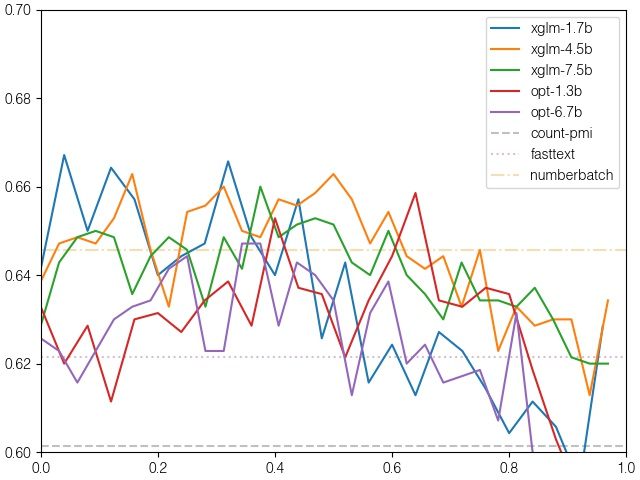
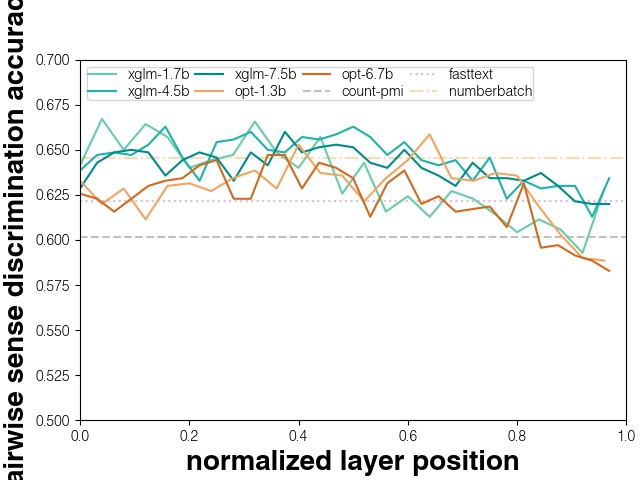
colors

Changed region(s): [[0.0, 0.0, 0.9688, 1.0], [0.9688, 0.875, 1.0, 1.0], [0.9375, 0.625, 0.9688, 0.7188]]

diff --git a/plot_layer_by_layer.py b/plot_layer_by_layer.py
@@ -26,12 +26,20 @@ static_styles = {
                  'numberbatch' : ['wheat', '-.'], 
                  'fasttext' : ['thistle', ':'],
                  }
+cont_colors = {
+               'xglm-1.7b' : 'mediumaquamarine',
+               'xglm-4.5b' : 'lightseagreen',
+               'xglm-7.5b' : 'darkcyan',
+               'opt-1.3b' : 'sandybrown',
+               'opt-6.7b' : 'chocolate',
+               }
+
 ### plotting
 file_name = os.path.join('plots', 'layer_by_layer.jpg')
 fig, ax = pyplot.subplots(constrained_layout=True)
 
 ax.set_xlim(left=0., right=1.)
-ax.set_ylim(bottom=0.6, top=.7)
+ax.set_ylim(bottom=0.5, top=.7)
 
 for model, model_results in results.items():
     if model in static_styles.keys():
@@ -46,6 +54,30 @@ for model, model_results in results.items():
     else:
         ### normalize into 0-1
         xs = [i/len(model_results) for i in range(len(model_results))]
-        ax.plot(xs, model_results, label=model)
-ax.legend()
+        ax.plot(
+                xs, 
+                model_results, 
+                label=model,
+                color=cont_colors[model],
+                )
+ax.set_xlabel(
+         'normalized layer position',
+         fontsize=20,
+         fontweight='bold',
+         )
+ax.set_ylabel(
+              'pairwise sense discrimination accuracy', 
+              fontsize=20, 
+              fontweight='bold',
+              )
+ax.legend(
+          #fontsize=25, 
+          ncol=4, 
+          loc=2, 
+          #frameon=False, 
+          borderpad=0.1,
+          columnspacing=.4,
+          labelspacing=.2,
+          #framealpha=0.
+          )
 pyplot.savefig(file_name)
